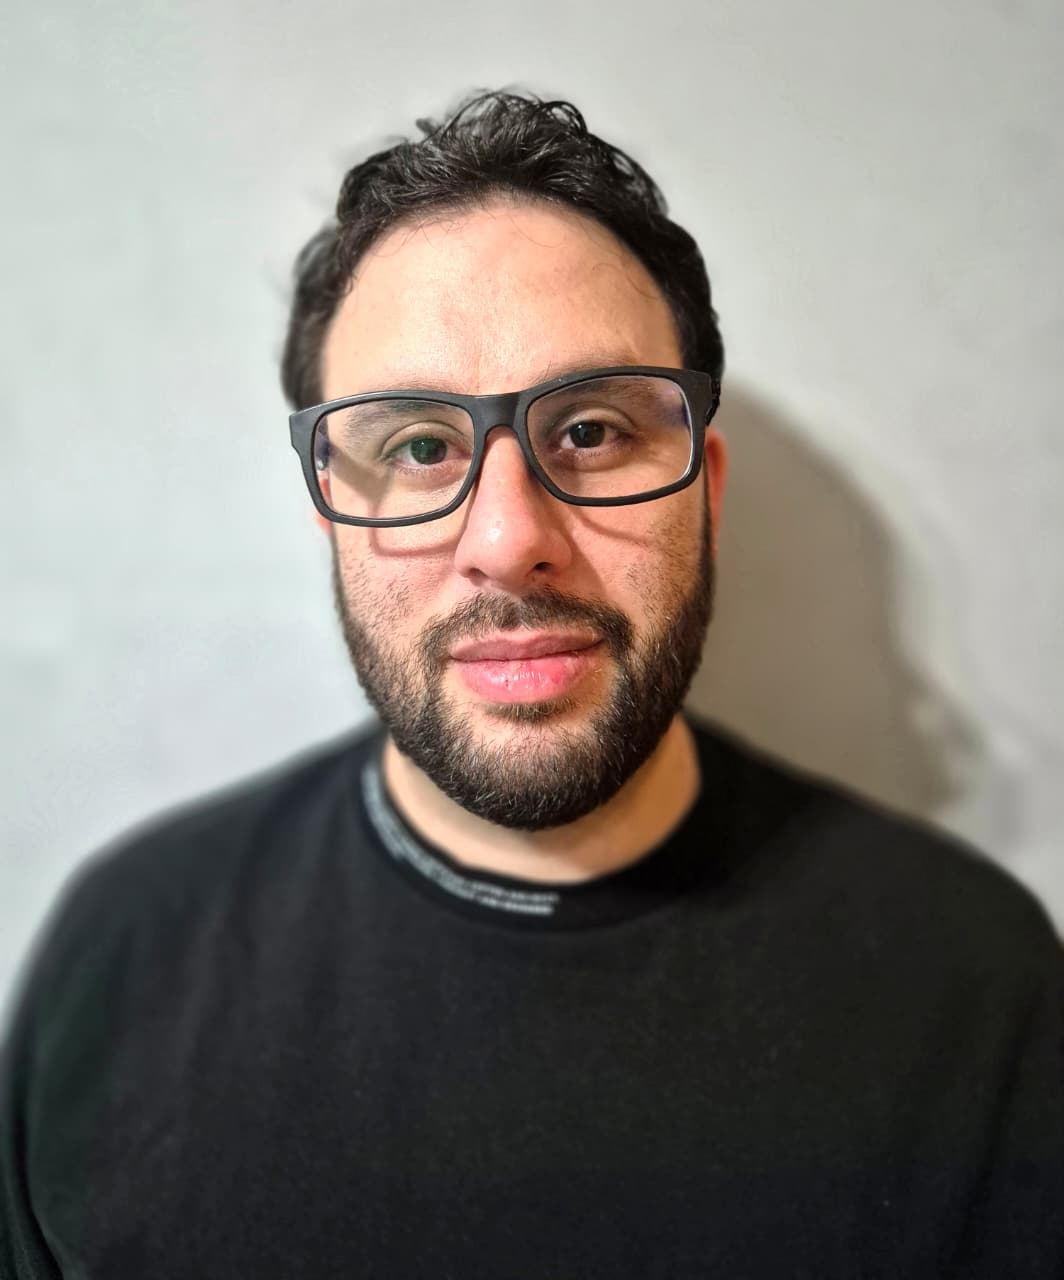
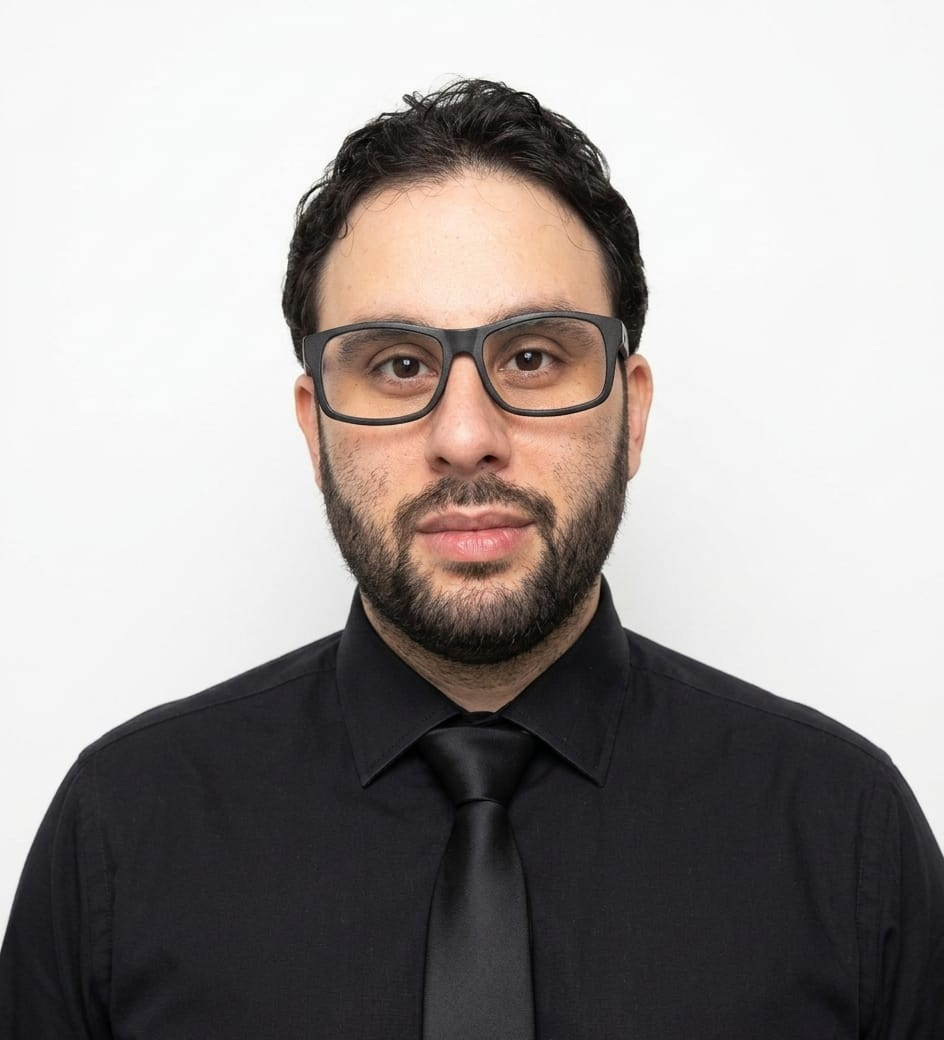
cambio de foto de perfil y presentacion

diff --git a/index.html b/index.html
@@ -57,9 +57,12 @@
                 Hola, soy Federico Baiocco. Bienvenido a mi portafolio.
             </p>
             <p class="mb-5">
-                Soy un estudiante de programación apasionado por la tecnología, con un fuerte enfoque en el desarrollo
-                de software dentro del ecosistema .NET. Mi objetivo es aplicar buenas prácticas para crear soluciones
-                eficientes y seguras.
+                Hoy, cursando 3er año en la UTN Pacheco, descubrí que mi mayor diferencial es cómo funciona mi cabeza. Tengo TDAH, y lejos de ser un obstáculo, lo convertí en mi motor. Mi capacidad de hiperfoco me permite sumergirme en problemas técnicos complejos durante horas hasta encontrar la solución, algo que fue clave para desarrollar mi primer proyecto Full Stack: un Sistema de Gestión de Asistencia para Enfermería que une mi trabajo actual en el Hospital Udaondo con mi presente de estudiante  en .NET y C#.
+                Lo que sumo a cualquier equipo:
+                Enfoque en C# y el ecosistema .NET: Me apasiona el backend y la estructura de SQL Server, pero me muevo con soltura en el frontend con JavaScript y Bootstrap.
+                Resolución bajo presión: Mis años en salud me dieron un "temple" que no se enseña en los libros; no me bloqueo ante los errores de sistema o los deadlines.
+                Me gusta entender el "porqué" de las cosas, ya sea analizando memoria en C++ o estructurando objetos en Java.
+                Busco mi primera oportunidad real en IT. No solo traigo código, traigo compromiso, la madurez de quien sabe lo que es trabajar en serio y una mente programada para no soltar un desafío hasta resolverlo.
             </p>
 
             <div class="row text-center text-md-start g-4">
